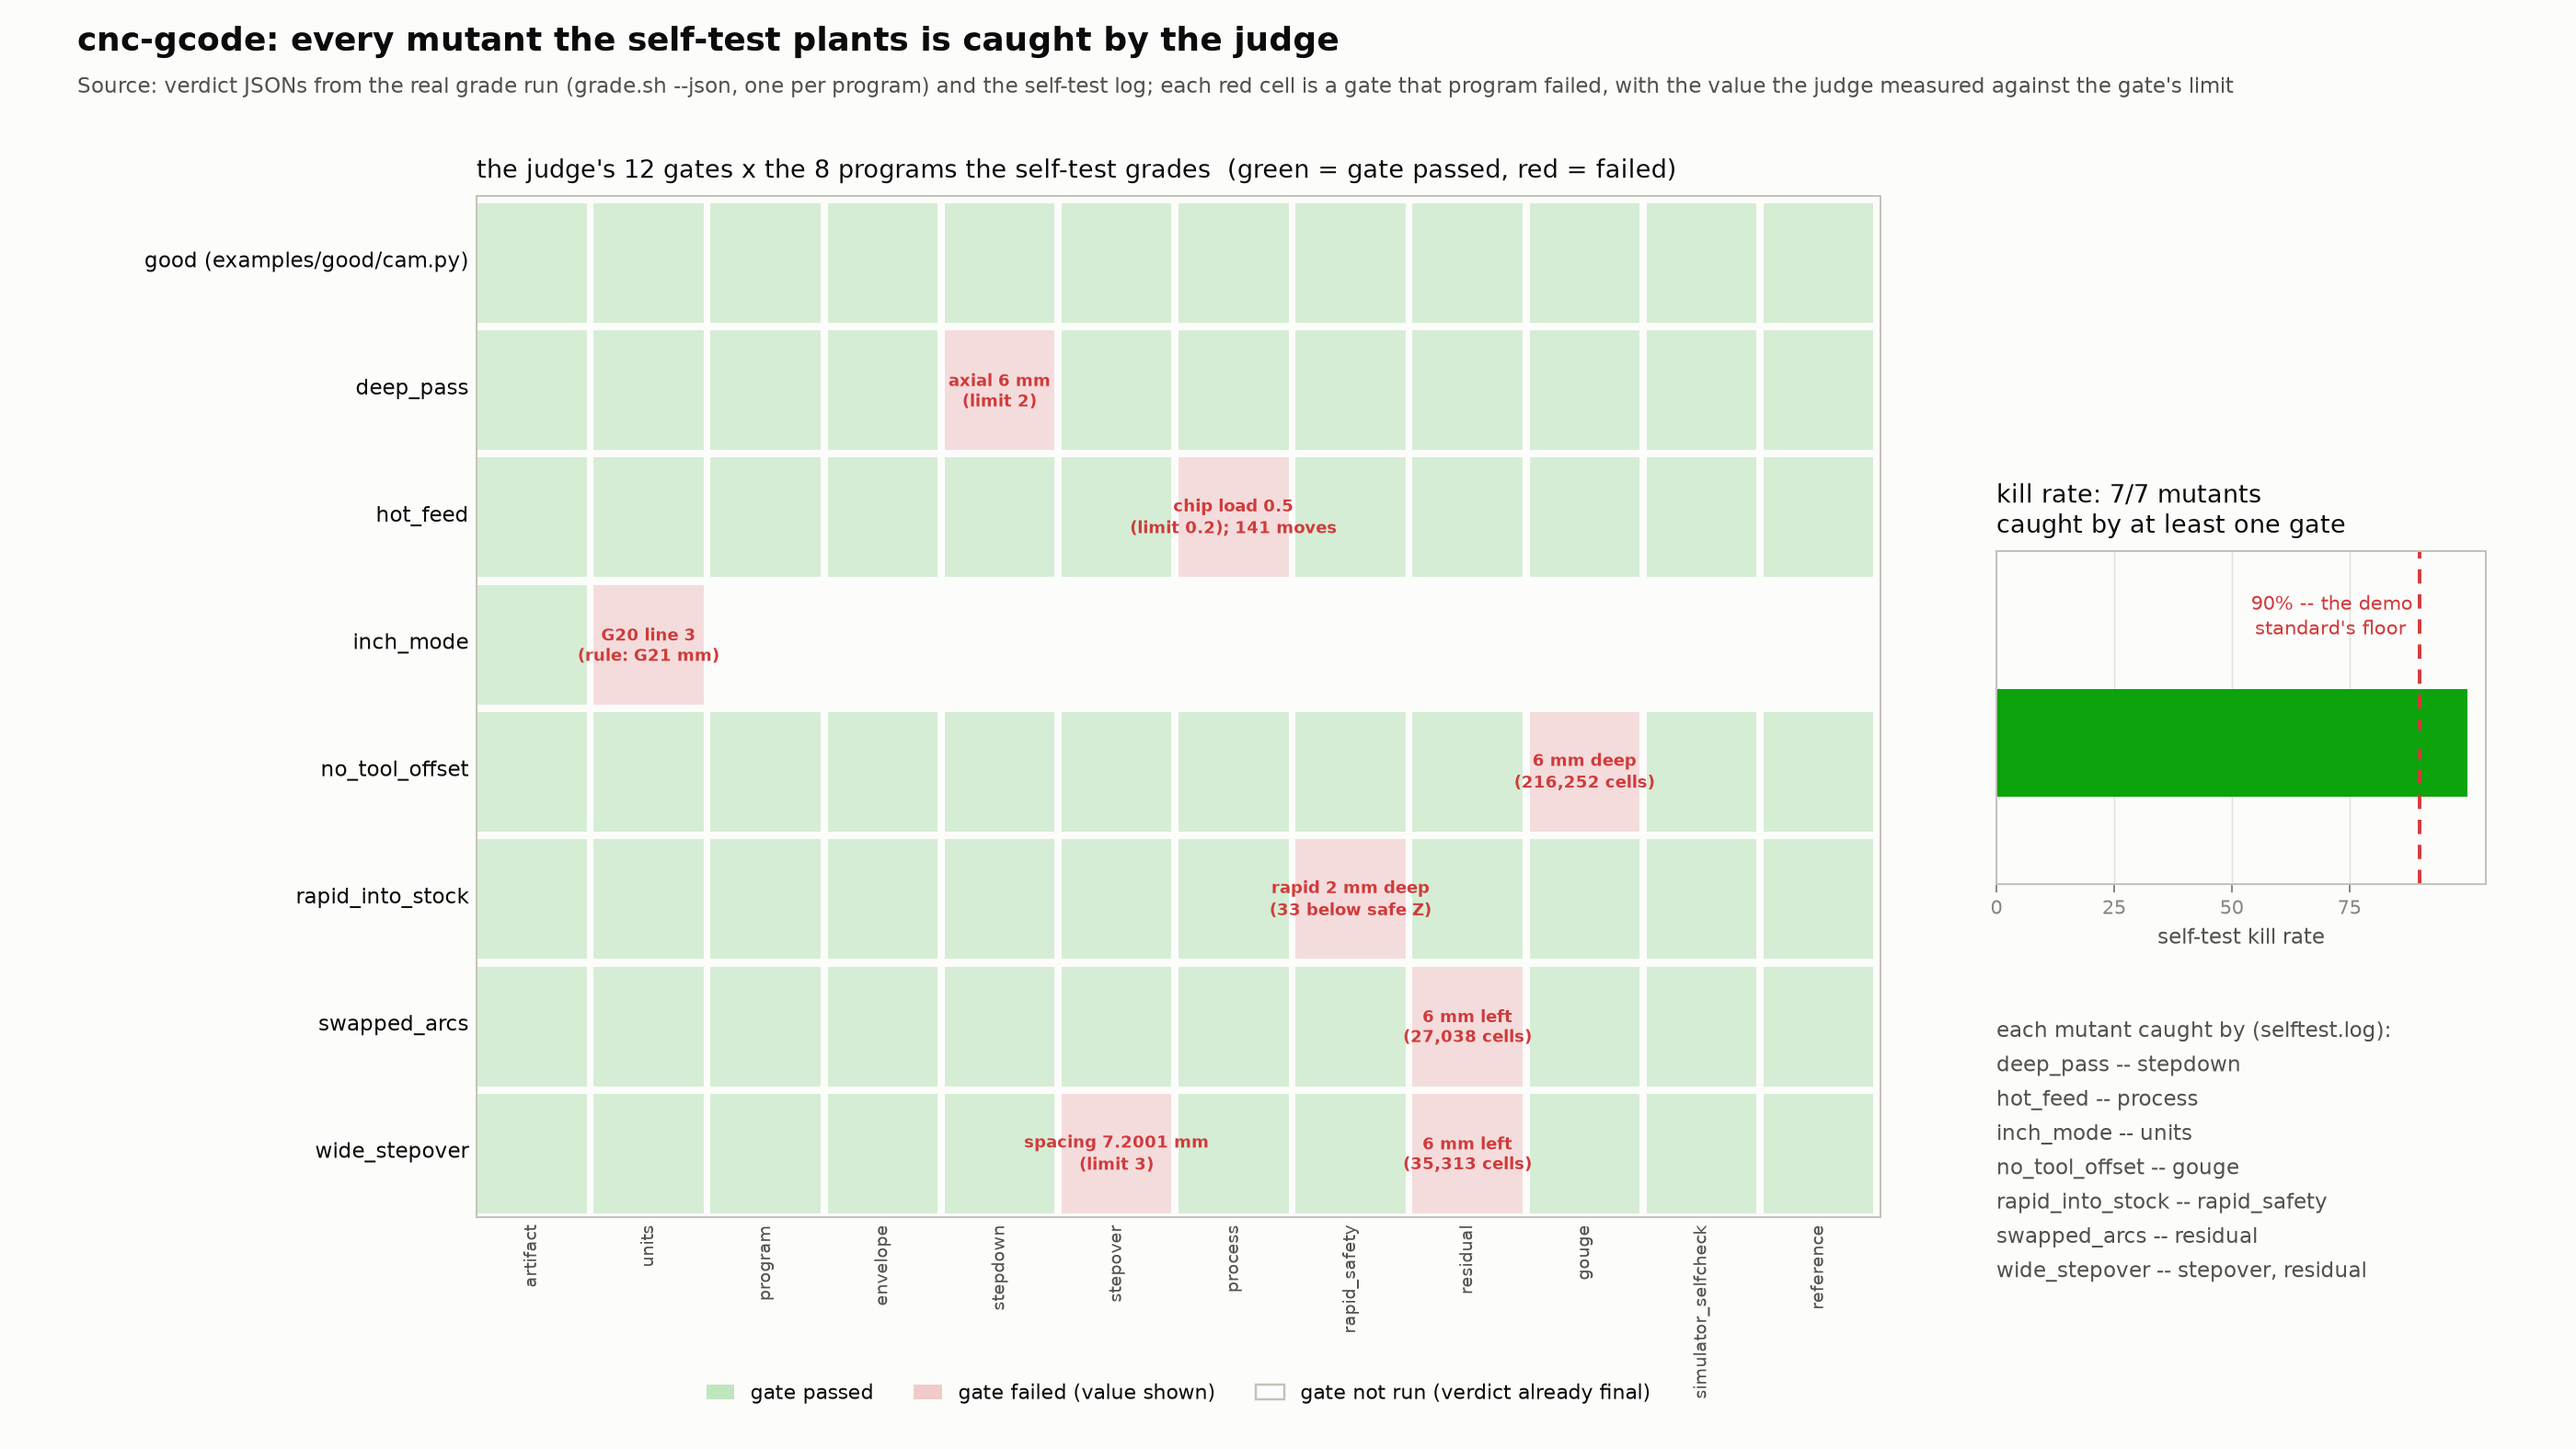
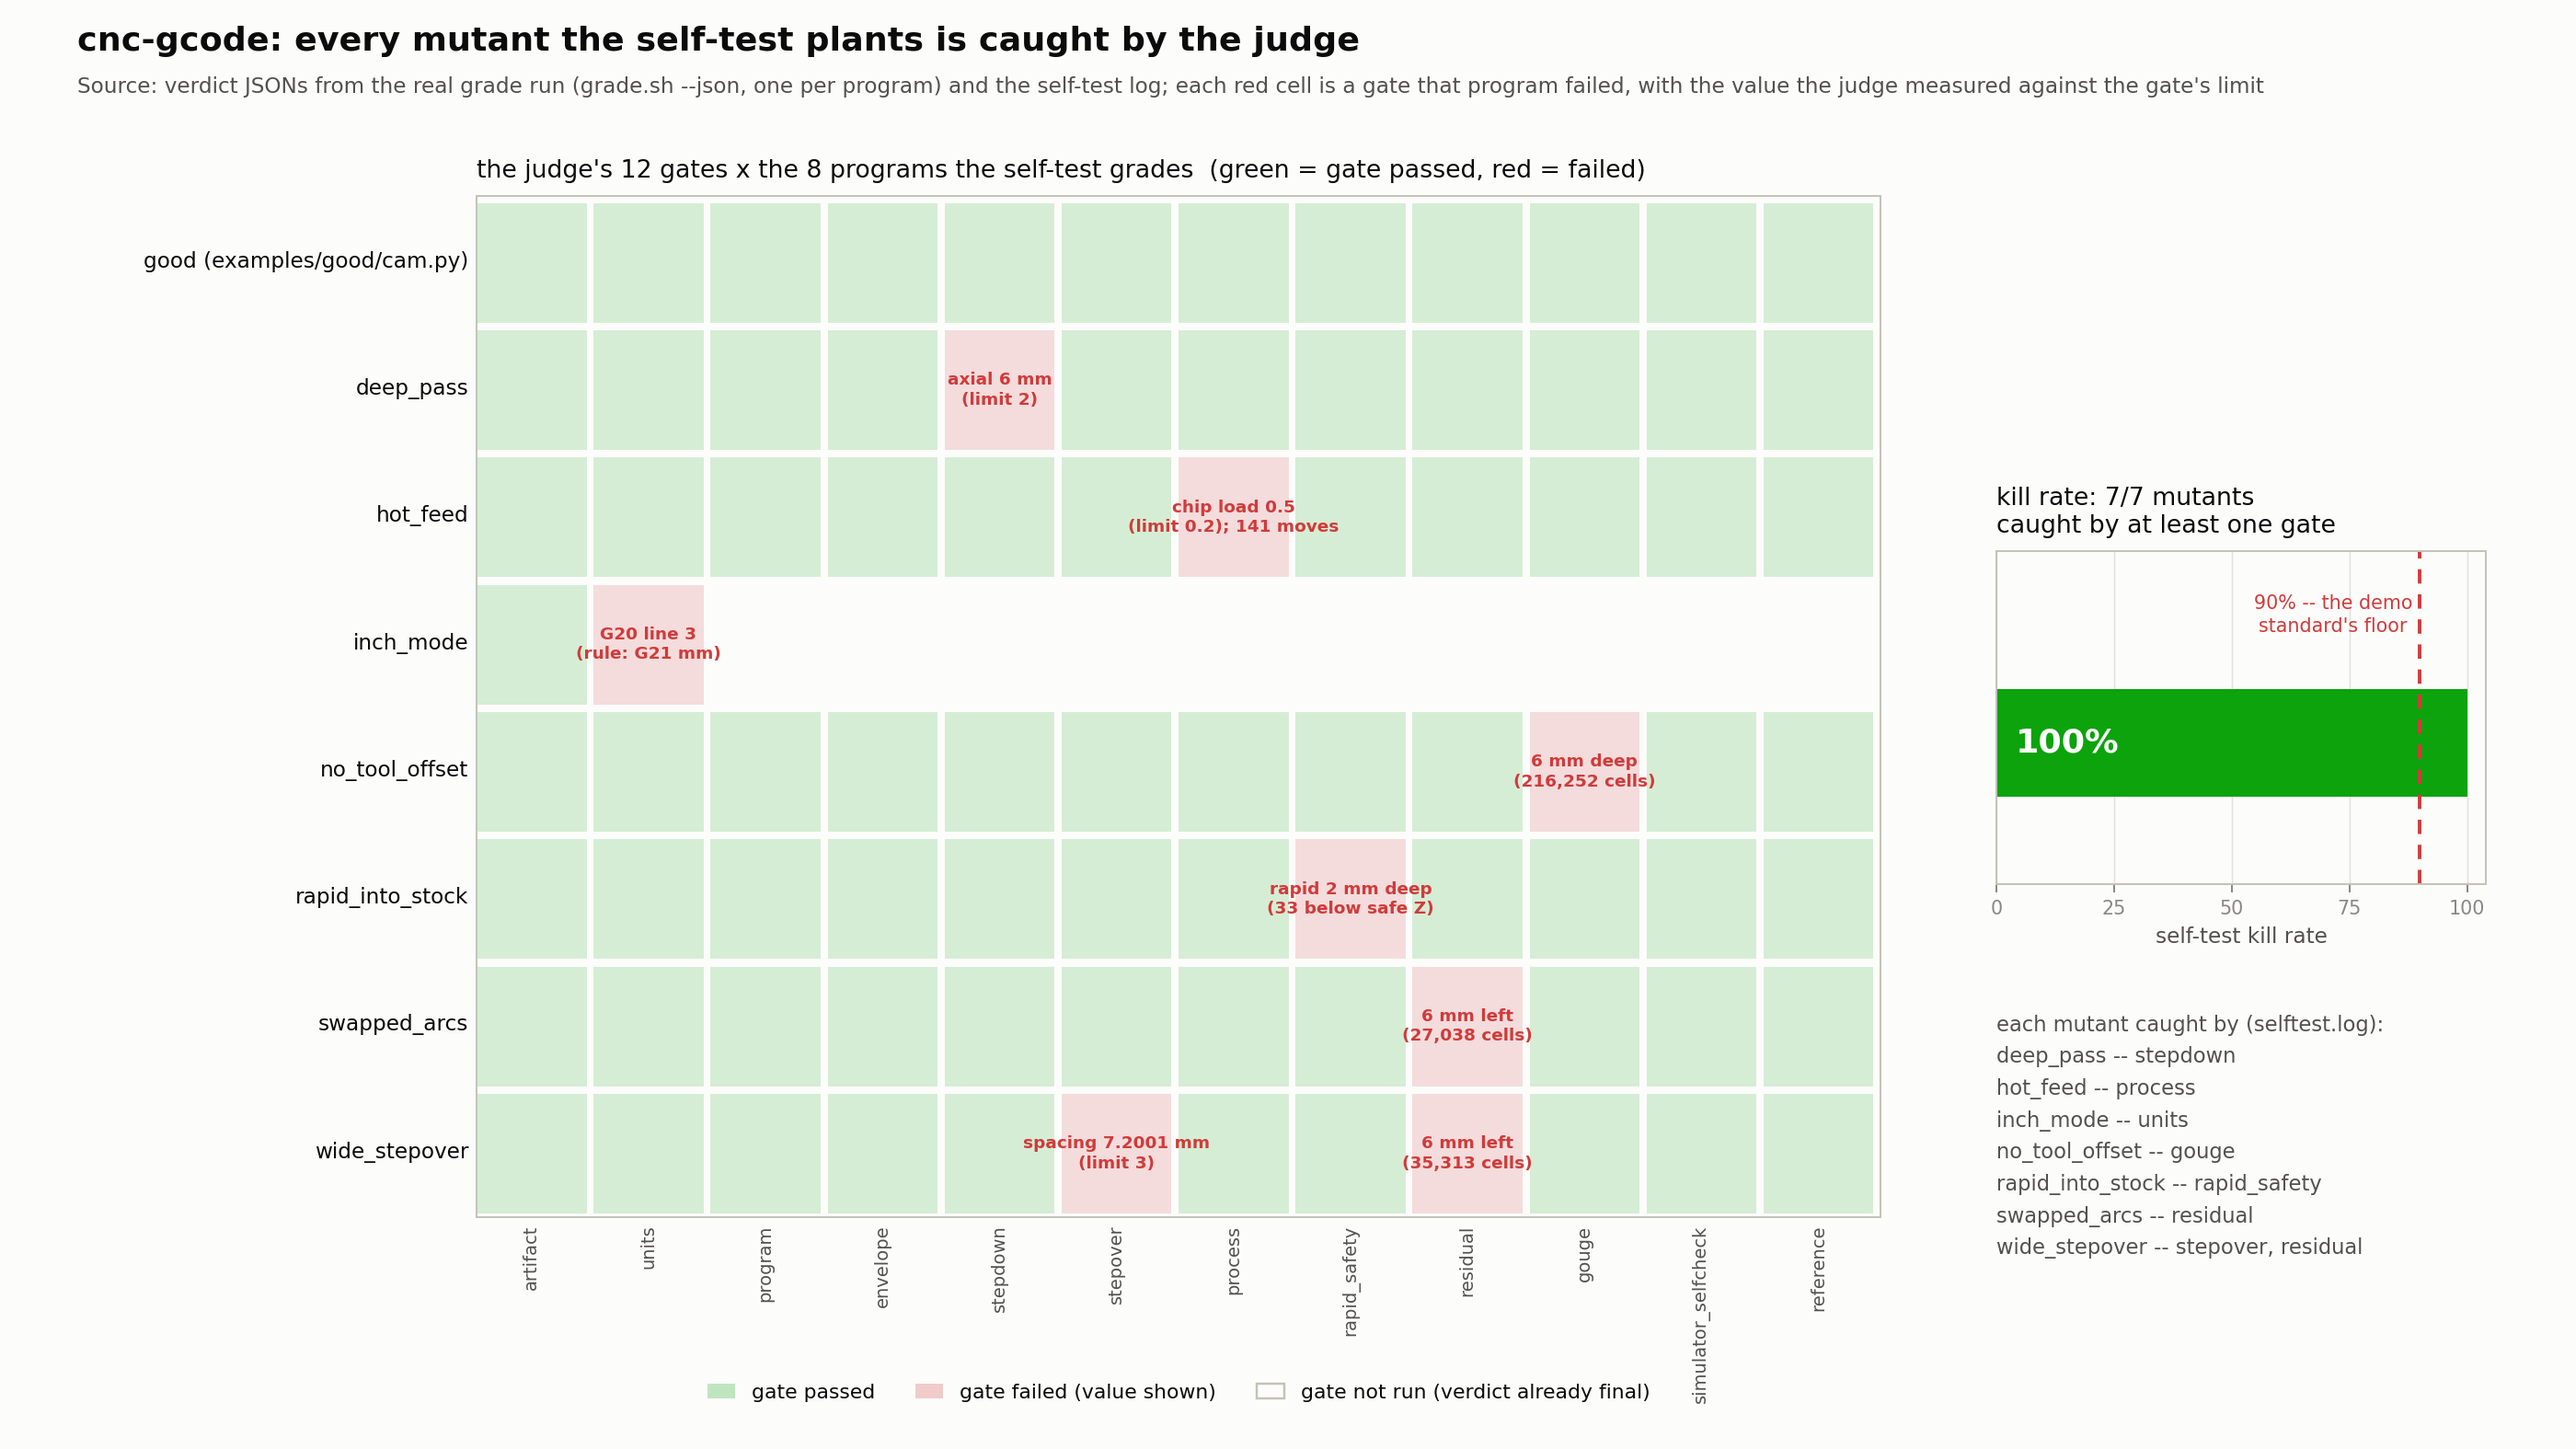
fix(cnc-gcode): loop.png kill-rate label readable on the bar, 100 tick

diff --git a/cookbook/cnc-gcode/media/make_loop.py b/cookbook/cnc-gcode/media/make_loop.py
@@ -159,12 +159,12 @@ def main():
     axK.axvline(90, color=CRIT, lw=1.6, ls=(0, (4, 3)))
     axK.text(88.5, 0.5, "90% -- the demo\nstandard's floor ", fontsize=8.5,
              color=CRIT, va="center", ha="right", linespacing=1.3)
-    axK.text(pct - 2, 0, f"{pct}%", va="center", ha="right", fontsize=15,
-             fontweight="bold", color=GOOD)
+    axK.text(4, 0, f"{pct}%", va="center", ha="left", fontsize=15,
+             fontweight="bold", color="white")
     axK.set_xlim(0, 104)
     axK.set_ylim(-0.55, 0.75)
     axK.set_yticks([])
-    axK.set_xticks([0, 25, 50, 75])
+    axK.set_xticks([0, 25, 50, 75, 100])
     axK.tick_params(axis="x", labelsize=8.5)
     axK.set_xlabel("self-test kill rate", fontsize=9.5)
     axK.set_title(
